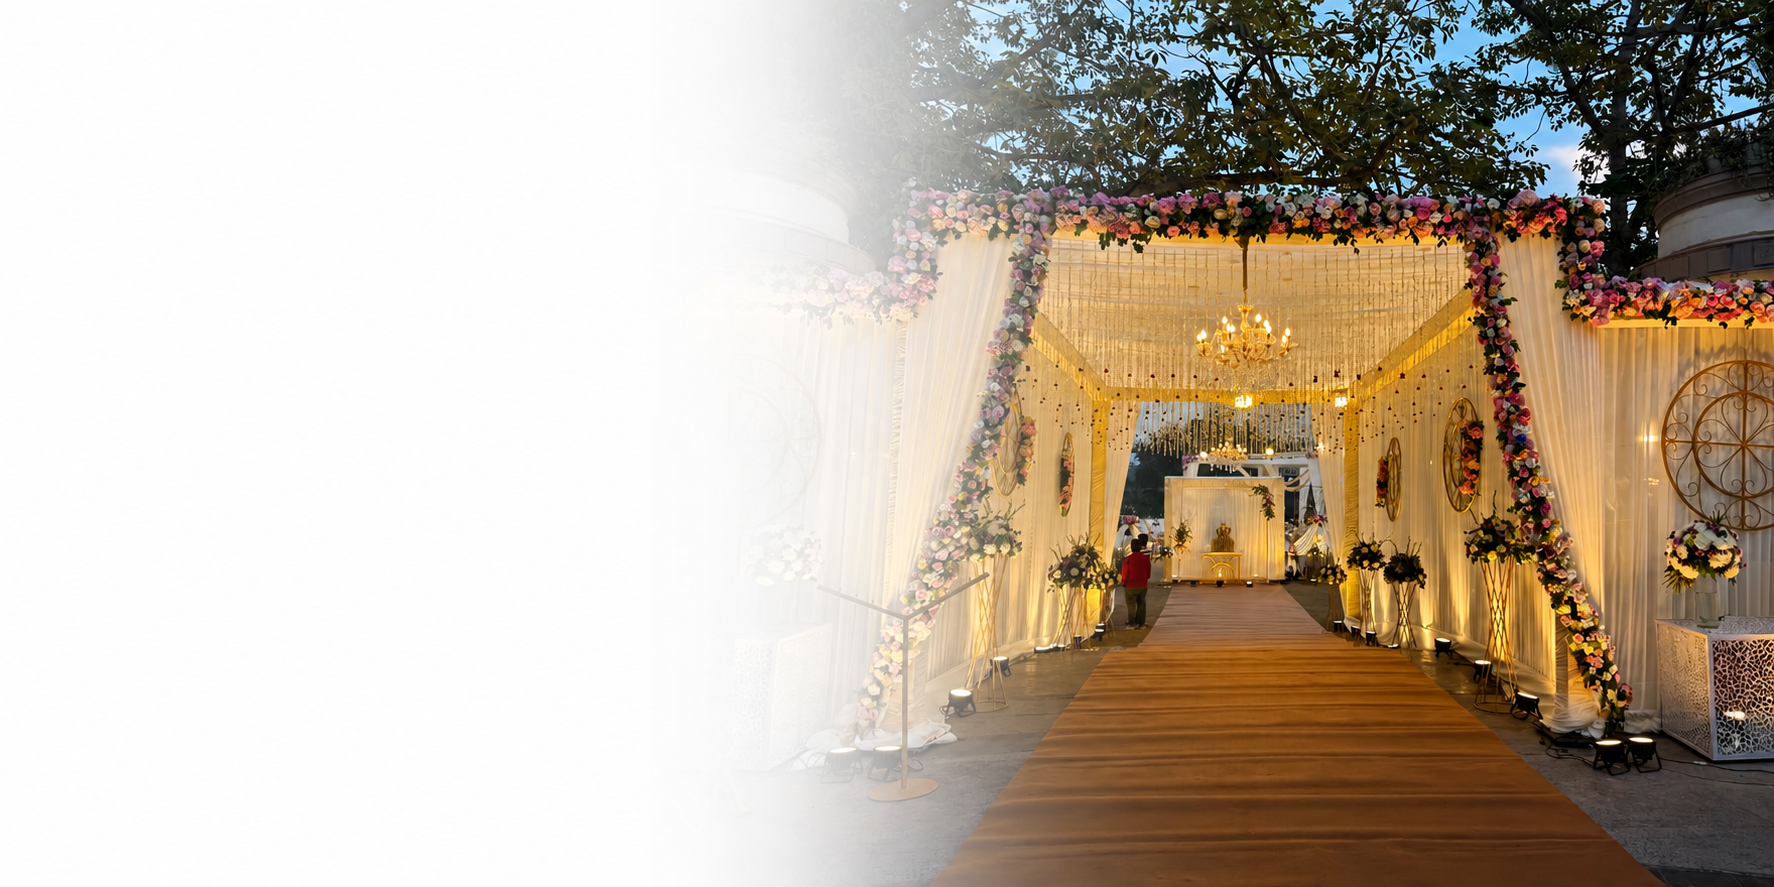
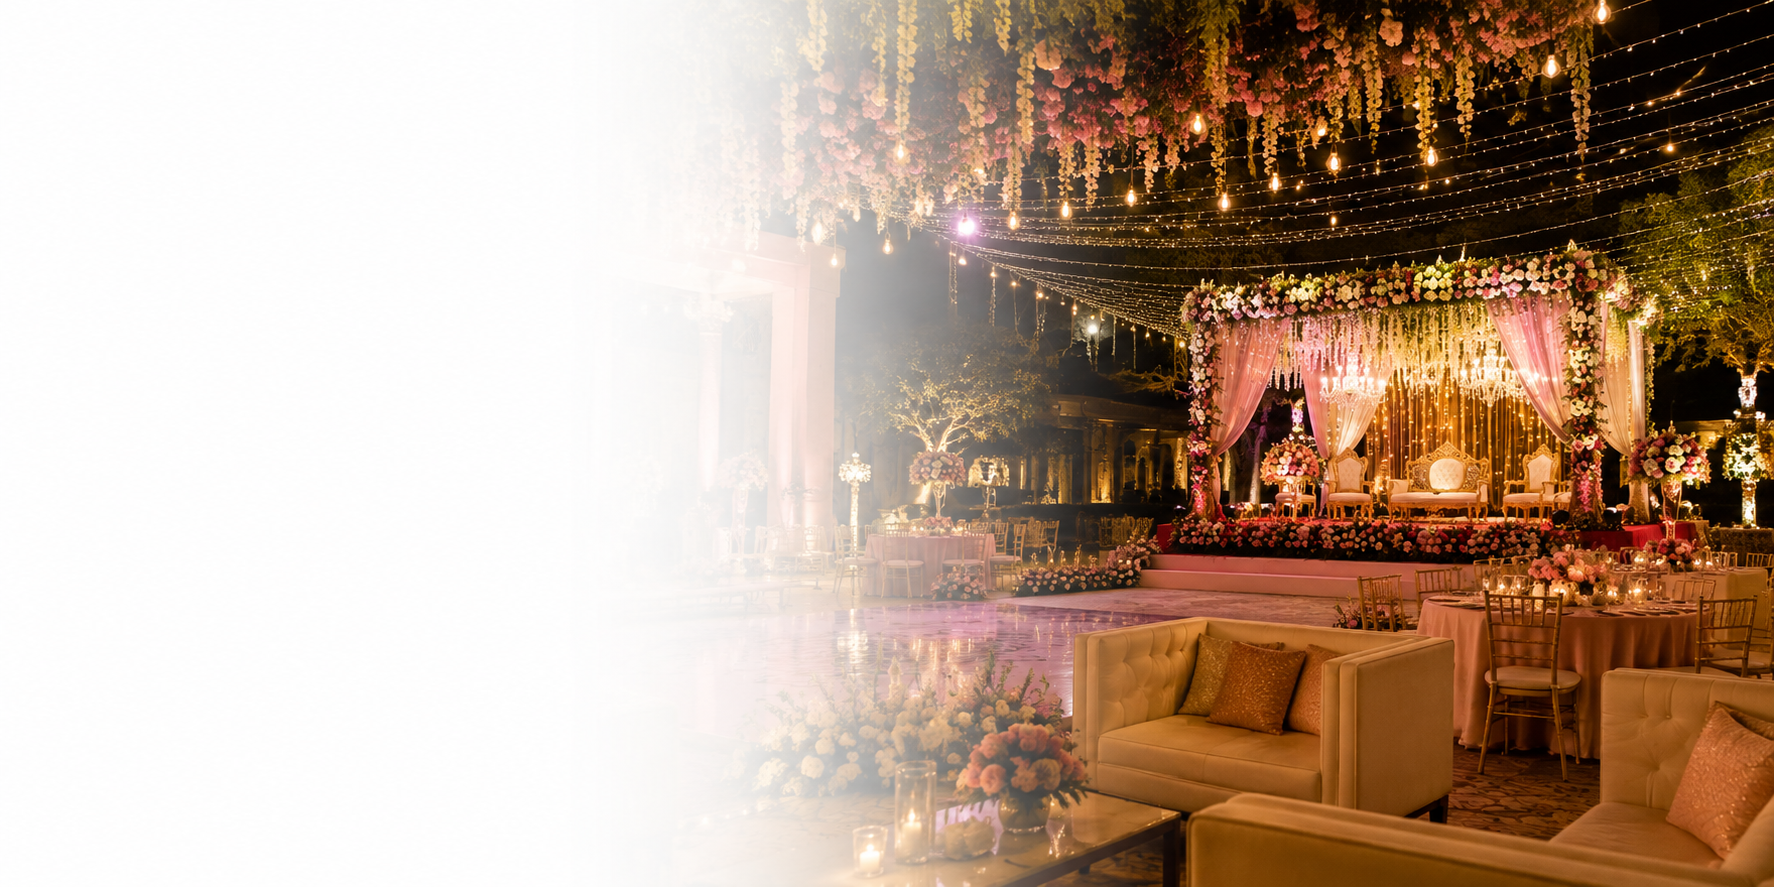
updated

diff --git a/frontend/app/corporate-events/page.tsx b/frontend/app/corporate-events/page.tsx
@@ -63,9 +63,7 @@ const projects = [
   },
 
   // Tadiran – DCM Shriram
-  {
-    image: "/corporate/taskus-noida/tadiran (1).png",
-  },
+
   {
     image: "/corporate/taskus-noida/tadiran (2).png",
   },
@@ -136,6 +134,21 @@ const services = [
 
 const showcaseCards = [
   {
+    title: "Study Group – Masquerade R&R Night",
+    description:
+      "A spectacular evening where elegance met appreciation. Inspired by the allure of a masquerade, the event celebrated outstanding achievements through captivating décor, heartfelt recognitions, engaging in-house performances, and an unforgettable guest experience.",
+    images: [
+      "/corporate/taskus-noida/sg (1).jpeg",
+      "/corporate/taskus-noida/sg (2).jpeg",
+      "/corporate/taskus-noida/sg (3).jpeg",
+    ],
+  },
+  {
+    title: "MARUTI NEXA",
+    description: `We got a brief from Maruti Suzuki- One of Maruti Suzuki's most loved sedan, CIAZ was moving exclusively to NEXA (Maruti's premium dealerships)\n\nThe idea of a cargo box with priority delivery was finalised to build curiosity & hype- Executing it simultaneously in Delhi, Mumbai, Bangalore, Hyderabad & Ahmedabad was a huge logistical challenge that team All Terrain delivered with efficiency & precision`,
+    images: ["/corporate/taskus-noida/nexa.png"],
+  },
+  {
     title: "Taskus Noida - Honouring Heroes. Celebrating Milestones.",
     description:
       "An unforgettable experience created to commemorate the inauguration of TaskUs’ new office and recognise exceptional talent. Inspired by iconic Indian superheroes, the event brought together immersive storytelling, engaging entertainment, and seamless execution.",
@@ -157,20 +170,18 @@ const showcaseCards = [
       "/corporate/taskus-noida/tts2.jpeg",
     ],
   },
-  {
-    title: "Study Group – Masquerade R&R Night",
-    description:
-      "A spectacular evening where elegance met appreciation. Inspired by the allure of a masquerade, the event celebrated outstanding achievements through captivating décor, heartfelt recognitions, engaging in-house performances, and an unforgettable guest experience.",
-    images: [
-      "/corporate/taskus-noida/sg (1).jpeg",
-      "/corporate/taskus-noida/sg (2).jpeg",
-      "/corporate/taskus-noida/sg (3).jpeg",
-    ],
-  },
+
   {
     title: "Sembcorp Green Hydrogen MoU Signing",
-    description: `Sembcorp Green Hydrogen MoU Signing marked a landmark international collaboration, bringing together global partners, government representatives, and industry leaders for the formal signing of a multi-nation green hydrogen initiative. Hosted at The Lodhi, New Delhi, the high-profile
-event seamlessly combined protocol, media engagement, and elegant hospitality.`,
+    description: `Sembcorp Green Hydrogen MoU Signing marked
+a landmark international collaboration, bringing
+together global partners, government
+representatives, and industry leaders for the
+formal signing of a multi-nation green hydrogen
+initiative.
+Hosted at The Lodhi, New Delhi, the high-profile
+event seamlessly combined protocol, media
+engagement, and elegant hospitality.`,
     images: [
       "/corporate/taskus-noida/sc (1).png",
       "/corporate/taskus-noida/sc (2).png",
@@ -211,8 +222,8 @@ Indian manufacturing partner, celebrating the
 signing of the MoU for local production and
 exports.`,
     images: [
-      "/corporate/taskus-noida/tadiran (1).png",
       "/corporate/taskus-noida/tadiran (2).png",
+      "/corporate/taskus-noida/tadiran (1).png",
     ],
   },
   {
@@ -437,7 +448,7 @@ export default function CorporateEvents() {
                 {currentCard.title}
               </h3>
 
-              <p className="mt-6 text-base sm:text-lg leading-7 sm:leading-8 text-[var(--text-light)]">
+              <p className="whitespace-pre-line mt-6 text-base sm:text-lg leading-7 text-[var(--text-light)]">
                 {currentCard.description}
               </p>
 

diff --git a/frontend/components/home/FeaturedWork.tsx b/frontend/components/home/FeaturedWork.tsx
@@ -10,16 +10,10 @@ import "swiper/css";
 const categories = ["Corporate", "Social"];
 
 const portfolioItems = [
-  { category: "Corporate", image: "/corporate/taskus-noida/tn (1).jpeg" },
-  { category: "Corporate", image: "/corporate/taskus-noida/tn (4).jpeg" },
-  { category: "Corporate", image: "/corporate/taskus-noida/tts1.jpeg" },
-  { category: "Corporate", image: "/corporate/taskus-noida/sg (1).jpeg" },
+  { category: "Corporate", image: "/corporate/ibm.png" },
+  { category: "Corporate", image: "/corporate/img4.webp" },
   { category: "Corporate", image: "/corporate/taskus-noida/sc (1).png" },
   { category: "Corporate", image: "/corporate/taskus-noida/ag (1).png" },
-  { category: "Corporate", image: "/corporate/taskus-noida/seil (1).png" },
-  { category: "Corporate", image: "/corporate/taskus-noida/tadiran (1).png" },
-  { category: "Corporate", image: "/corporate/taskus-noida/taskus (1).png" },
-  { category: "Corporate", image: "/corporate/taskus-noida/img (1).jpeg" },
   { category: "Corporate", image: "/corporate/taskus-noida/img (3).jpeg" },
   { category: "Corporate", image: "/corporate/taskus-noida/img (5).jpeg" },
 

diff --git a/frontend/components/home/Hero.tsx b/frontend/components/home/Hero.tsx
@@ -41,7 +41,7 @@ export default function Hero() {
   };
 
   useEffect(() => {
-    const timer = setInterval(nextSlide, 8000);
+    const timer = setInterval(nextSlide, 12000);
     return () => clearInterval(timer);
   }, []);
 
